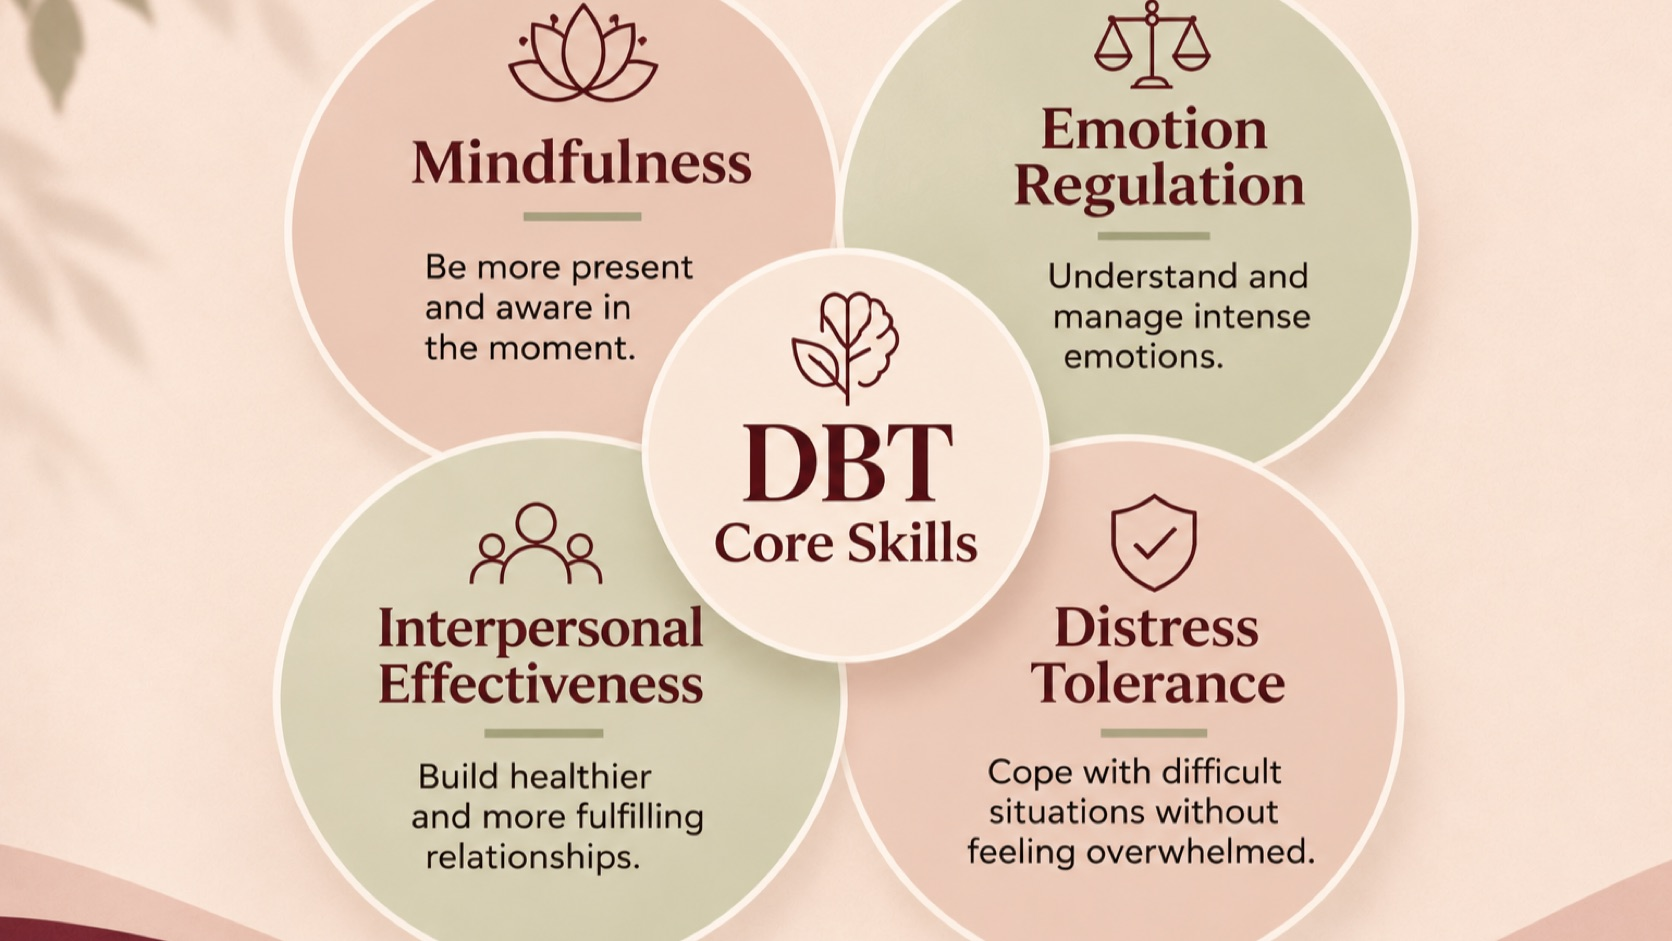
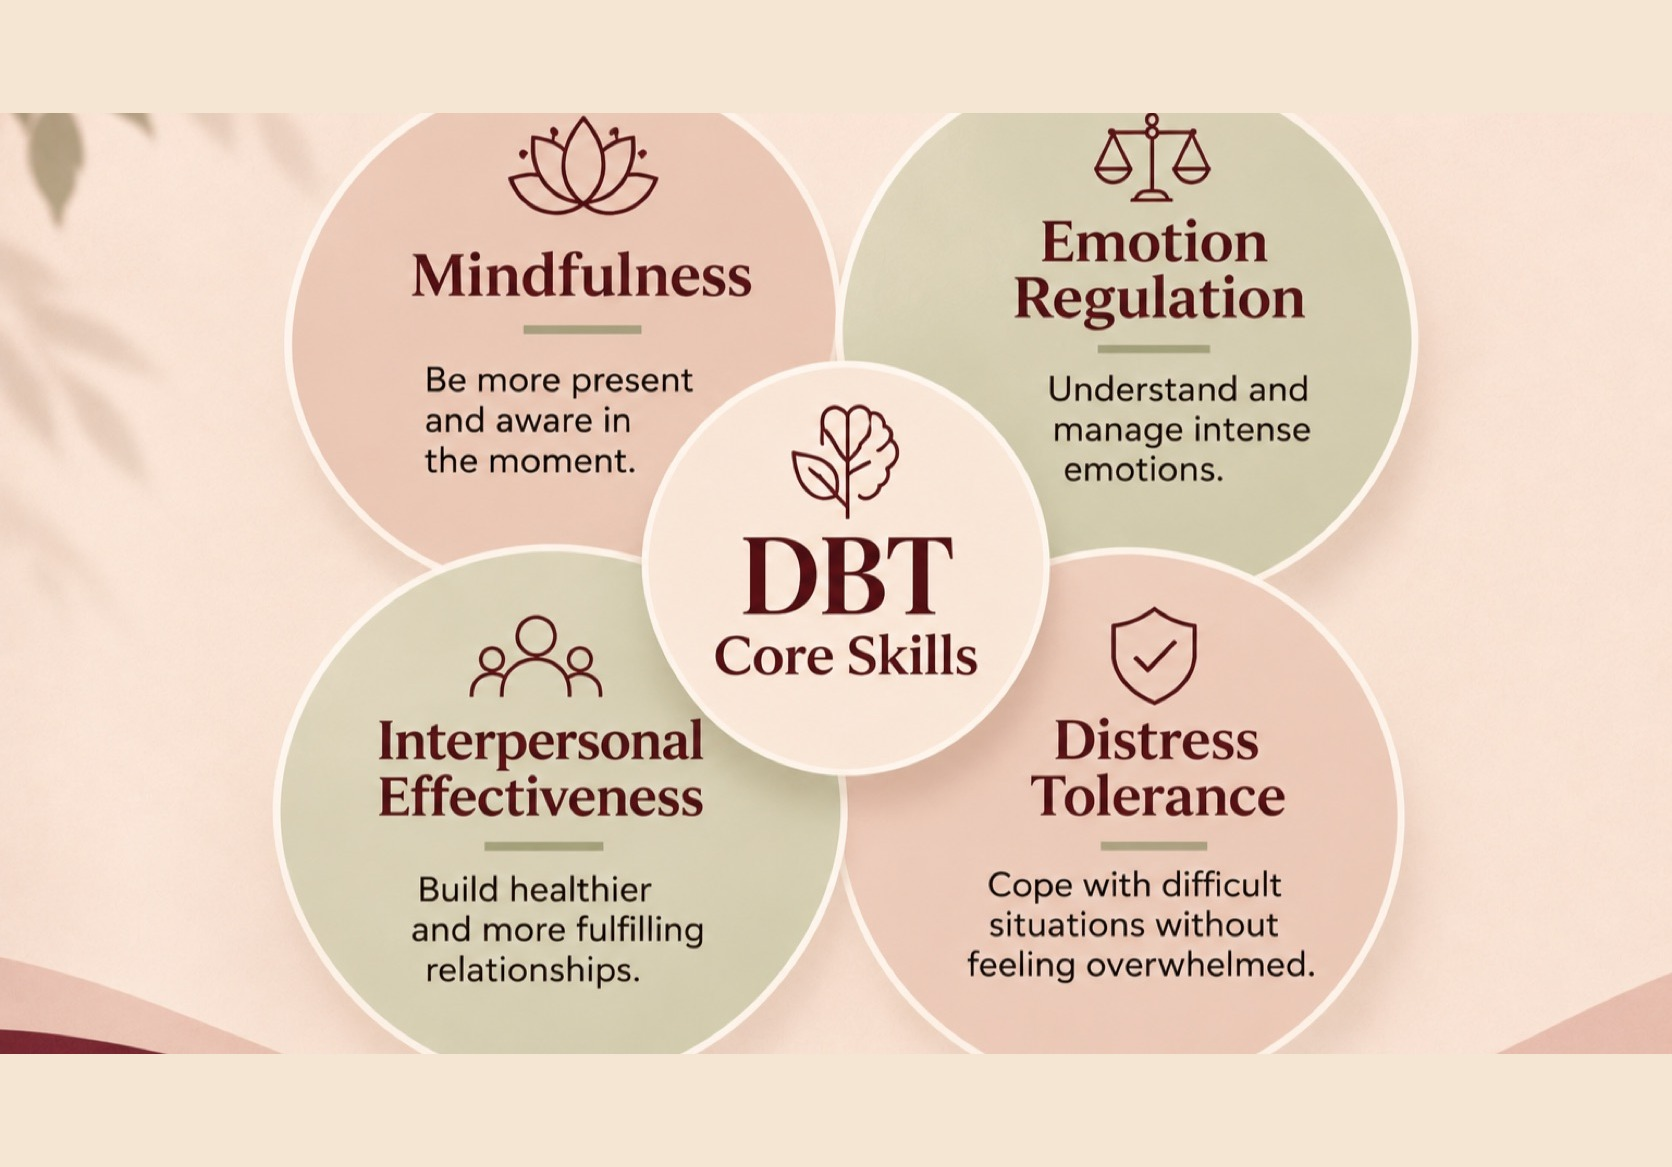
Clean up blog post formatting and DBT hero image
- Remove stray standalone "---" lines from post content (rendered as visible text artifacts) across is-online-therapy-right-for-you, premarital-counseling, therapy-for-athletes, addiction-treatment-egypt, cbt-therapy-explained, dbt-therapy-explained (EN + AR)
- Trim redundant English parenthetical from AR DBT intro sentence
- Add cream padding above/below the DBT hero image so the four-skill graphic isn't cropped in the 420px blog hero band

diff --git a/lib/blog-data.ts b/lib/blog-data.ts
@@ -746,7 +746,6 @@ Whether you end up doing therapy online or in-person, the starting point is the 
 
 You don't need to decide between online and in-person before reaching out. That's part of what the assessment is for.
 
----
 
 **Interested in exploring whether online therapy is right for you?** Reach out to Sama Wellness Therapy — +20 113 094 6556. We serve clients in-person at our New Giza clinic and online across Egypt, Saudi Arabia, and the Middle East, in both Arabic and English.`,
   },
@@ -819,7 +818,6 @@ Sessions are available in person at our New Giza clinic, serving couples across 
 
 You don't need to be having problems to start. Your free 15-minute assessment with Counselor Sama is where that starts.
 
----
 
 **The way you handle conflict matters more than whether you have it — and it can be learned.** Reach out to Sama Wellness Therapy — +20 113 094 6556. In person at our New Giza clinic, and online across Egypt, Saudi Arabia, and the Middle East.`,
   },
@@ -919,7 +917,6 @@ Because high-level athletes travel for camps and competitions, sessions are also
 
 If you're already good, and you're ready to find out how much further you can go — if that's where you are right now, that's exactly what sessions are for.
 
----
 
 **The athletes who go furthest train their minds as seriously as their bodies.** Reach out to Sama Wellness Therapy — +20 113 094 6556. In person at our New Giza clinic, and online across Egypt, Saudi Arabia, and the Middle East.`,
   },
@@ -1019,7 +1016,6 @@ At our clinic in New Giza, serving clients and families from Sheikh Zayed, 6th o
 
 Whether you're worried about yourself or about someone you love — if that's where you are right now, that's exactly what sessions are for.
 
----
 
 **Every form of addiction follows a pattern — and patterns can be changed.** Reach out to Sama Wellness Therapy — 0113 094 6556. In person at our New Giza clinic, and online across Egypt, Saudi Arabia, and the Middle East.`,
   },
@@ -1135,7 +1131,6 @@ At Sama Wellness Therapy, CBT is one of the core approaches <a style="color:var(
 
 Your first step is a 15-minute assessment with Counselor Sama, part of your first session, to match you with the right therapist and approach. If you're ready to work on what's happening now, that's exactly what sessions are for.
 
----
 
 **Your thoughts aren't always facts, and you can learn to tell the difference.** Reach out to Sama Wellness Therapy — +20 113 094 6556. In person at our New Giza clinic, and online across Egypt and the Middle East.`,
   },
@@ -1230,7 +1225,6 @@ At Sama Wellness Therapy, several of our therapists use DBT alongside CBT and ot
 
 Not sure if DBT is the right fit? That's what your free 15-minute assessment with Counselor Sama is for. It's how we match you with the right therapist.
 
----
 
 **Your feelings make sense, and you can still learn new ways to respond.** If that's where you are right now, that's exactly what sessions are for.`,
   },

diff --git a/public/BLOG/Blog_20_Arabic_DBT_Explained.md b/public/BLOG/Blog_20_Arabic_DBT_Explained.md
@@ -10,7 +10,7 @@
 
 فيه ناس بتحس بالحاجات على أعلى صوت. نقد صغير بيوصل كأنه هجوم. خناقة بتولّع في ثواني. موجة زعل أو غضب بتيجي بسرعة لدرجة إنها لما تعدّي، تكون قلت أو عملت حاجة ندمان عليها.
 
-لو ده مألوف ليك، إنت مش "حسّاس زيادة"، ومش مكسور. ممكن ببساطة محدش علّمك المهارات اللي تتعامل بيها مع مشاعر قوية. وده بالظبط اللي **العلاج الجدلي السلوكي** أو DBT (Dialectical Behavior Therapy) اتعمل عشان يعلّمه.
+لو ده مألوف ليك، إنت مش "حسّاس زيادة"، ومش مكسور. ممكن ببساطة محدش علّمك المهارات اللي تتعامل بيها مع مشاعر قوية. وده بالظبط اللي **العلاج الجدلي السلوكي** أو DBT اتعمل عشان يعلّمه.
 
 ## DBT جاي منين؟
 
